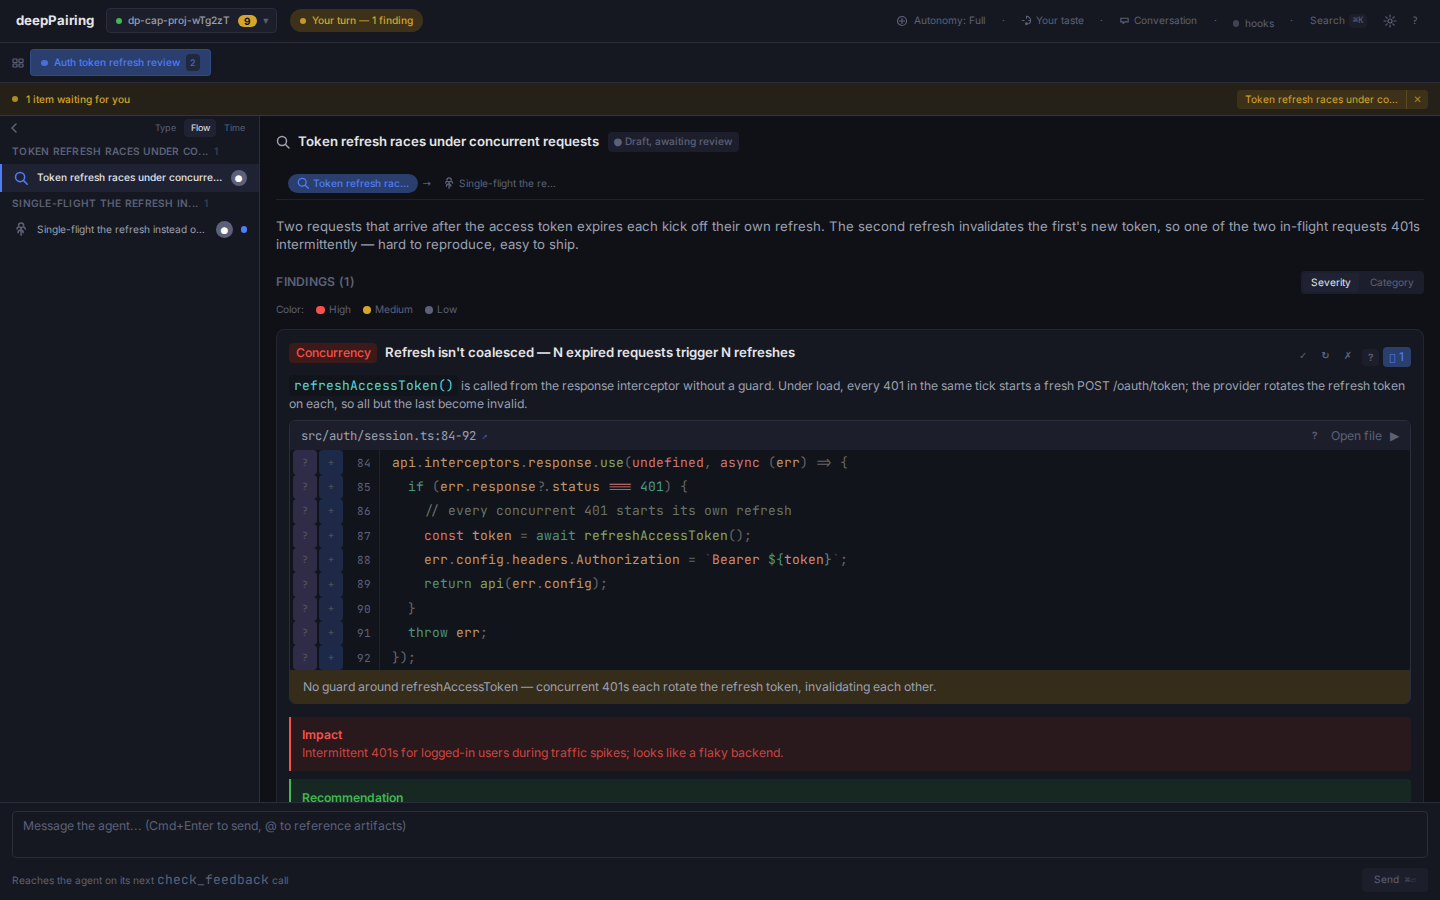
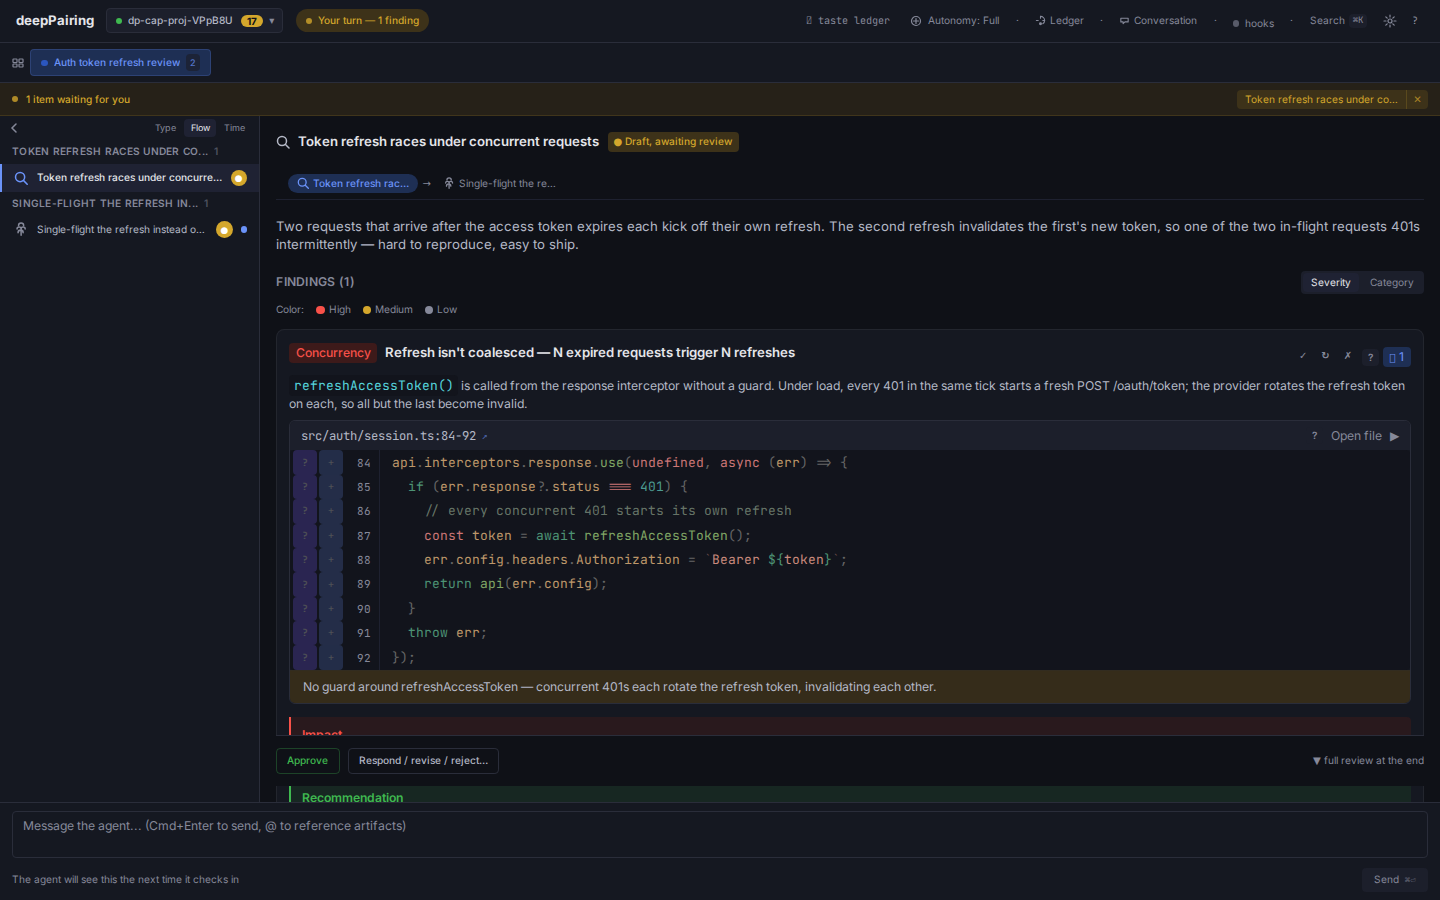
docs: refresh README screenshots (F2 Ledger rename) + fix capture selector (#141)
The capture-readme selector shipped BROKEN in #140: my review-NIT scoped
the click to page.locator('header'), but the top bar is a <div>, not a
<header> landmark — so the opt-in capture (CI-skipped, never run) timed
out. Fixed to .first() (the header button is first in DOM; a mismatch
toast's same-labeled action can't strict-throw a .first() locator).

With the selector working, regenerated all three README screenshots from a
clean demo session and VISUALLY verified each:
- ledger.png — the Ledger drawer (was falling through to the review
  surface pre-fix) with the 3 seeded avoid-stances + reasons.
- review-surface.png — a spec's concurrency finding with syntax-highlighted
  code, severity colors, Approve/Respond/reject.
- reasoning-card.png — 'What I'm about to do', the named pattern
  (single-flight / request coalescing), roads-not-taken with 'Ask why'.
Also fixed the ledger shot's alt-text ('Your Taste' → 'Ledger', F2 rename).

diff --git a/packages/mcp-server/e2e/capture-readme.e2e.ts b/packages/mcp-server/e2e/capture-readme.e2e.ts
@@ -143,9 +143,11 @@ test("capture README screenshots", async ({ page }) => {
     // CompoundingBadge stat and this dedicated button), so match the dedicated
     // one EXACTLY, then WAIT for the drawer to actually render before capturing
     // — no silent .catch() fallthrough.
-    // Scope to the header (review NIT) — a daemon-mismatch toast can carry the
-    // same "Open the Ledger" action label; unscoped + exact would strict-throw.
-    await page.locator("header").getByRole("button", { name: "Open the Ledger", exact: true }).click();
+    // The header button is the first "Open the Ledger" in DOM order. A
+    // daemon-mismatch toast can carry the same action label, so .first()
+    // (not an unscoped exact match, which would strict-throw) targets the
+    // real header control — and there's no <header> landmark to scope to.
+    await page.getByRole("button", { name: "Open the Ledger", exact: true }).first().click();
     await page.getByText("Cross-project Philosophy Ledger").waitFor({ state: "visible", timeout: 10_000 });
     await page.waitForTimeout(1000); // let the drawer's slide-in + digest settle
     await page.screenshot({ path: path.join(ASSETS, "ledger.png") });

diff --git a/README.md b/README.md
@@ -153,7 +153,7 @@ the collaboration, not the headline:
   confidence; later a breadcrumb shows what you predicted before, with a ✓/✗/◐
   retrospective to close the loop.
 
-![The "Your Taste" drawer — cross-project stances, each with the reason you gave when you rejected it.](docs/assets/ledger.png)
+![The Ledger drawer — cross-project stances, each with the reason you gave when you rejected it.](docs/assets/ledger.png)
 
 > **See it in ~90 seconds.** The [demo command](#try-the-demo) fires the live
 > flow against a real companion UI.